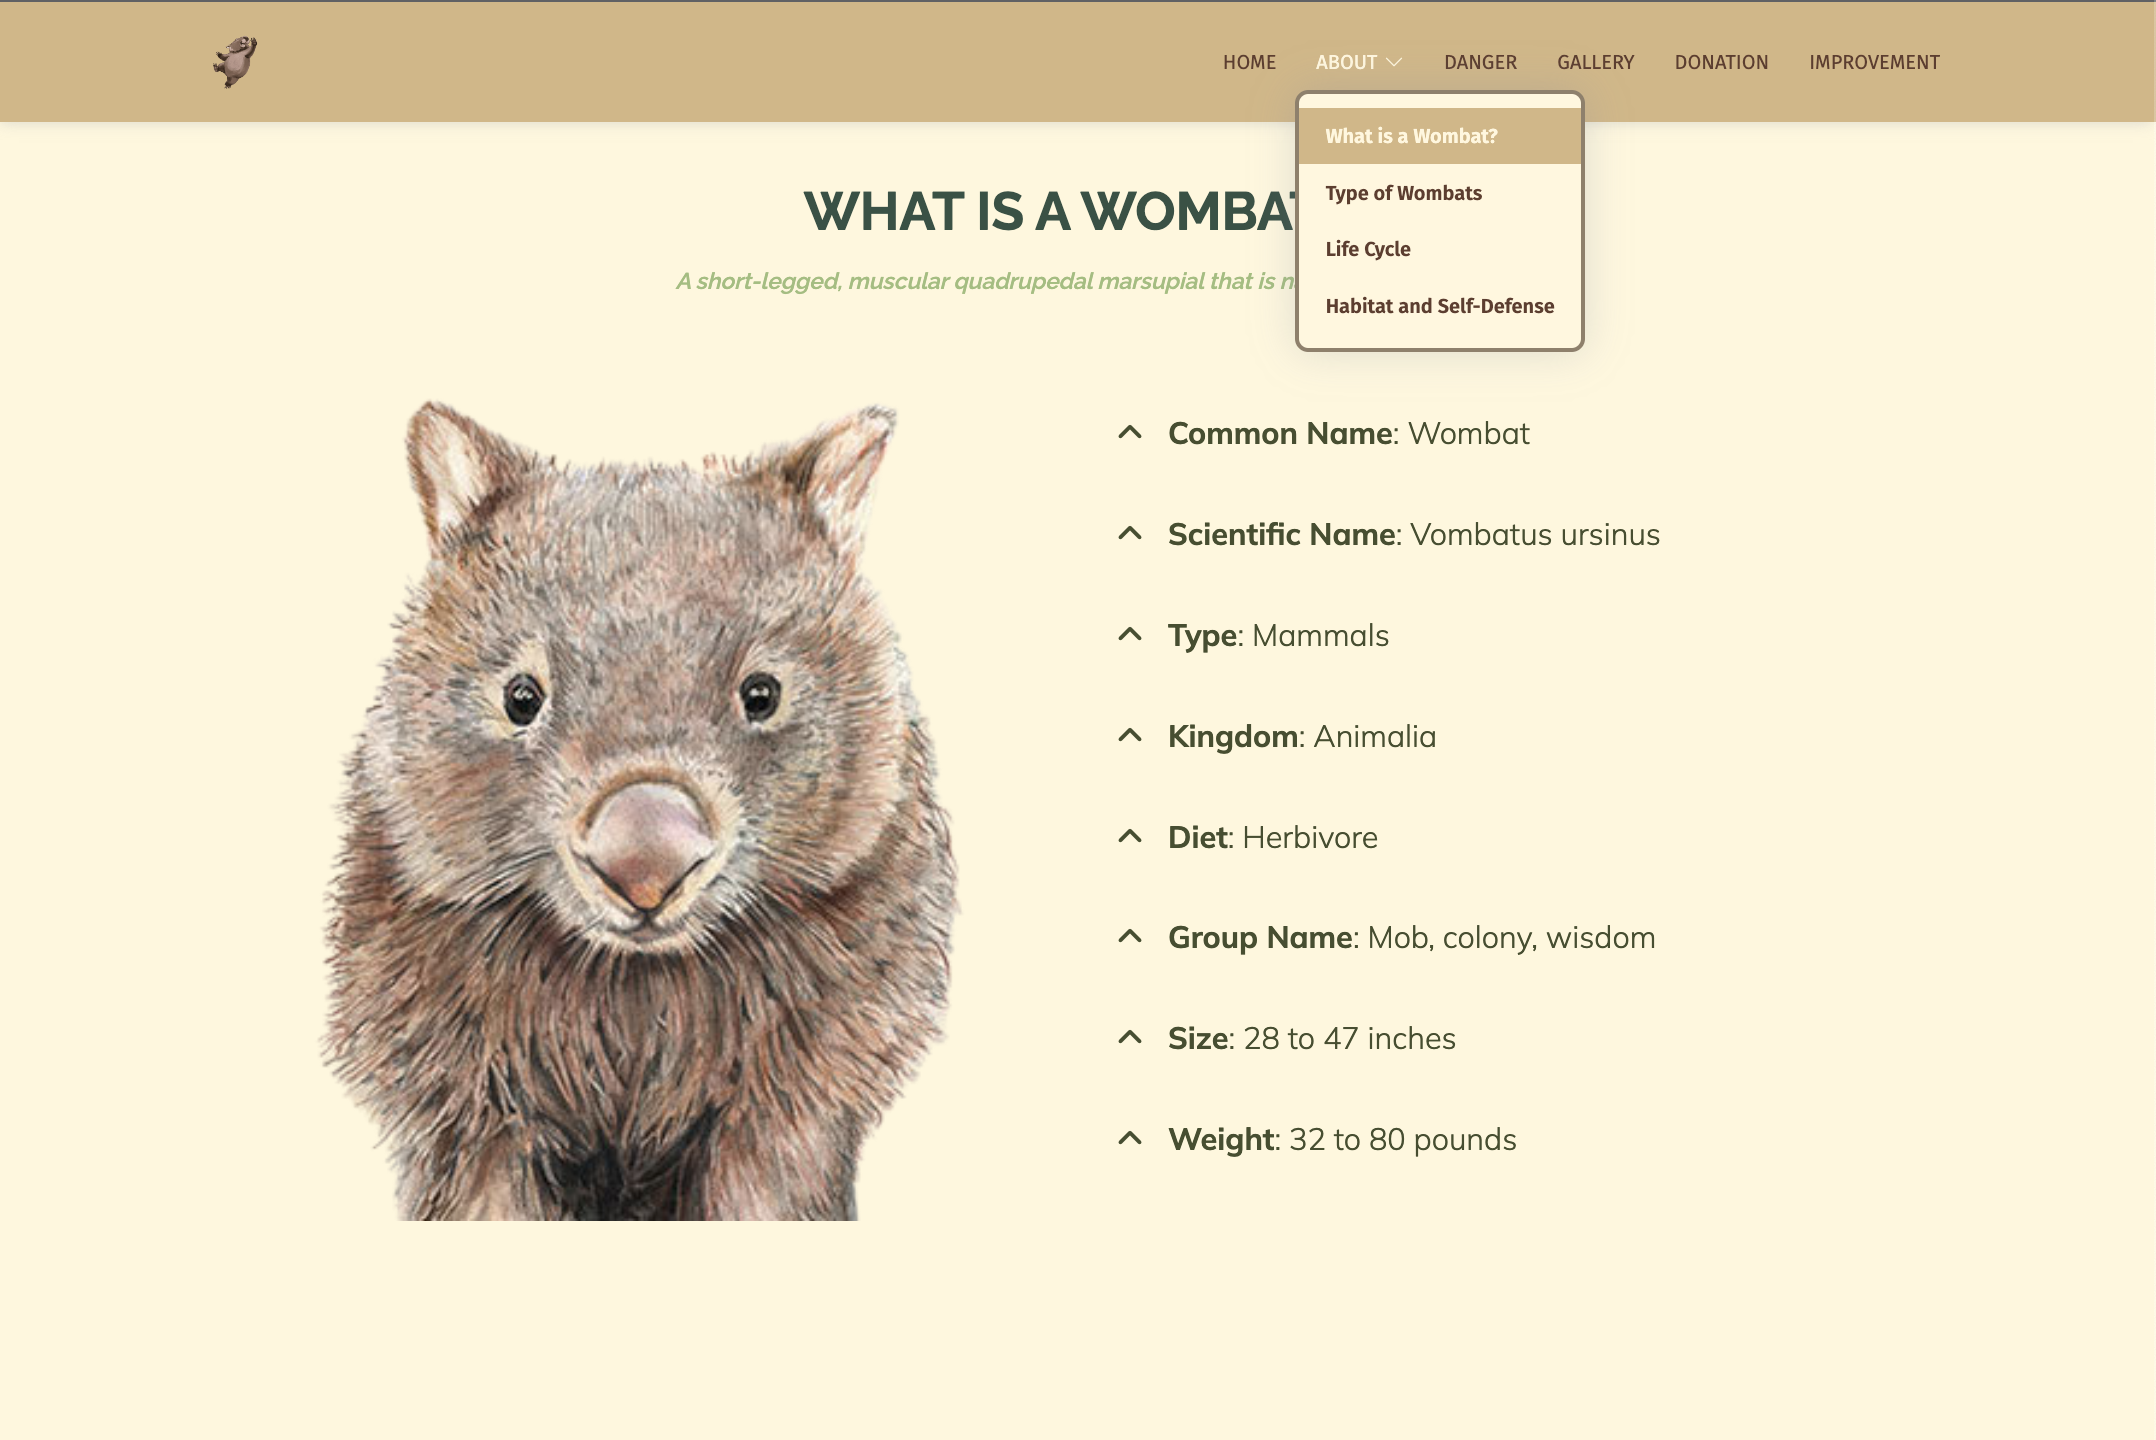
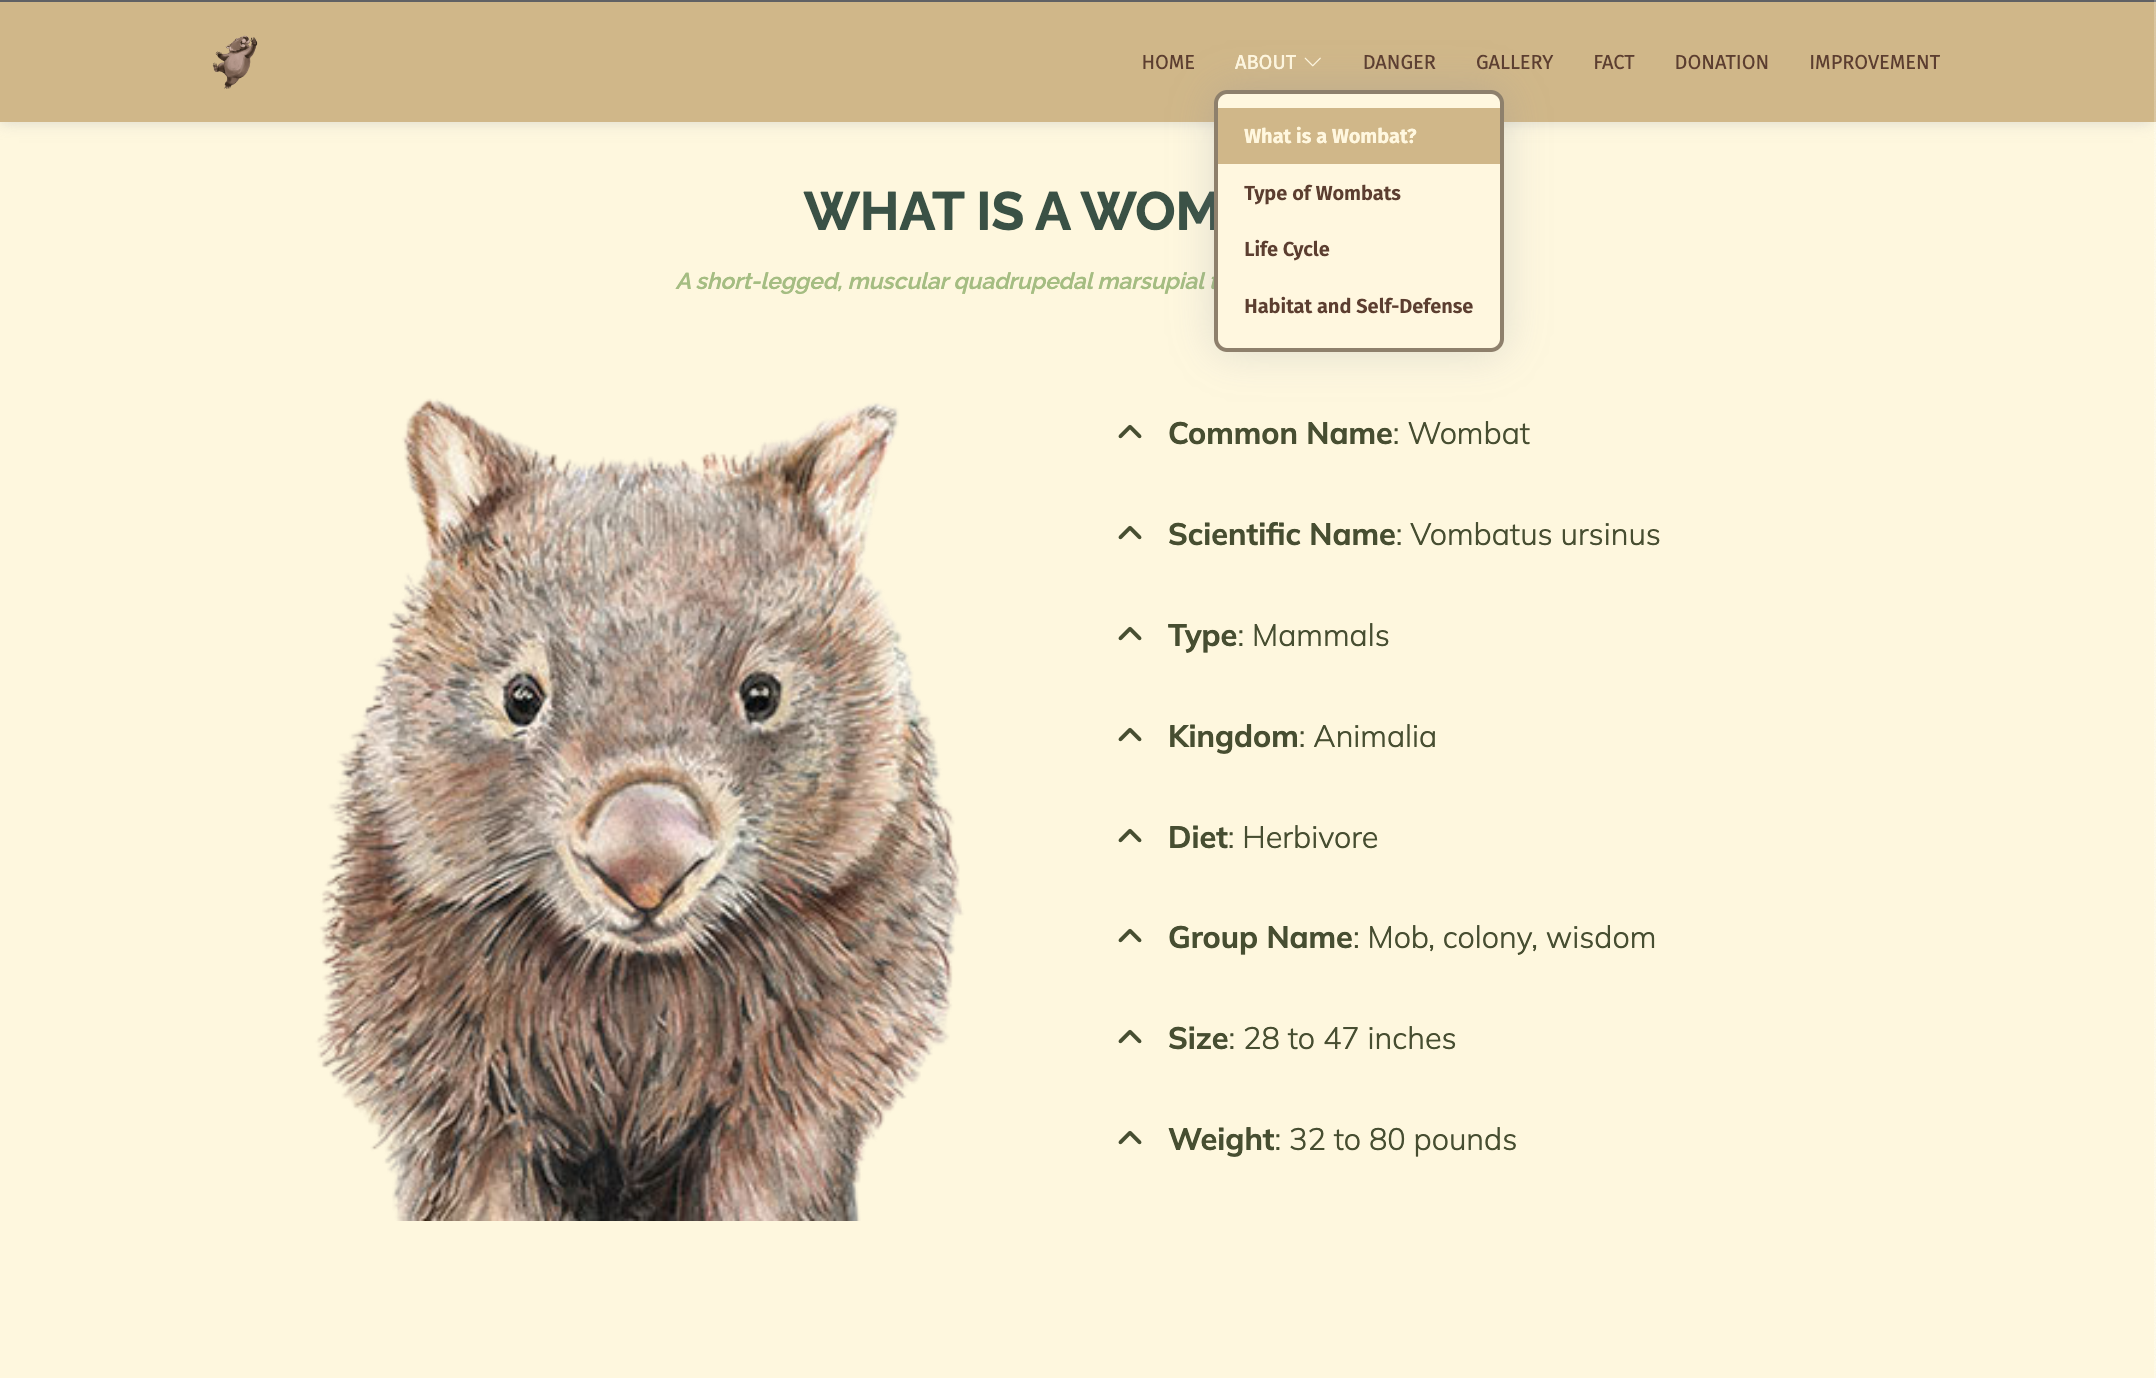
eh

diff --git a/index.html b/index.html
@@ -74,6 +74,7 @@
             </li>
             <li><a class="nav-link scrollto " href="#danger">Danger</a></li>
             <li><a class="nav-link scrollto " href="#gallery">Gallery</a></li>
+            <li><a class="nav-link scrollto " href="#fact">Fact</a></li>
             <li><a class="nav-link scrollto" href="#donation">Donation</a></li>
             <li><a class="nav-link scrollto" href="#improvement">Improvement</a></li>
           </ul>
@@ -704,8 +705,7 @@
           <div class="row footer-newsletter justify-content-center">
             <div class="col-lg-6">
               <form method="post">
-                <input type="email" name="email" placeholder="Enter your Email">
-                <a href="https://youtu.be/6GUisuU6xzo"><button>Subscribe</button></a>
+                <input type="email" name="email" placeholder="Enter your Email"><a class="btn-sub">Subscribe</a>
               </form>
             </div>
           </div>

diff --git a/assets/css/footer.css b/assets/css/footer.css
@@ -54,7 +54,6 @@
   padding: 6px 10px;
 }
 
-
 #footer .footer-top .footer-newsletter form input[type="email"] {
   width: calc(100% - 110px);
   border: 0;
@@ -62,23 +61,23 @@
   margin: 0;
 }
 
-#footer .footer-top .footer-newsletter button {
+#footer .footer-top .footer-newsletter a {
   position: absolute;
   text-align: center;
   font-size: 16px;
   background: #A4BE7B;
   color: #FEF7DC;
   transition: 0.3s;
+  border: 0;
   border-radius: 10px;
-  width: 20%;
+  cursor: pointer;
   top: 0;
   bottom: 0;
   right: -1px;
-  border: 0;
-  padding: 0 20px;
+  padding: 10px;
 }
 
-#footer .footer-top .footer-newsletter button:hover {
+#footer .footer-top .footer-newsletter a:hover {
   background: #5ab652;
   color: #FEF7DC;
 }
@@ -100,6 +99,7 @@
   background: #A4BE7B;
   line-height: 1;
   border-radius: 50%;
+  cursor: pointer;
   transition: 0.3s;
   width: 36px;
   height: 36px;
